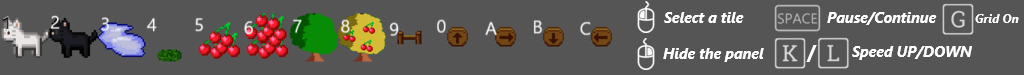
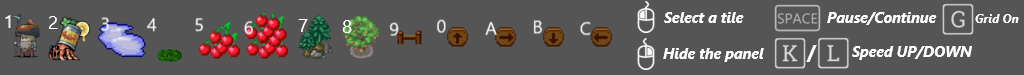
Add skin pack

Changed region(s): [[0.2812, 0.16, 0.375, 0.8267], [0.0, 0.2133, 0.0938, 0.8]]

diff --git a/src/GamePanel.java b/src/GamePanel.java
@@ -29,16 +29,17 @@ public class GamePanel {
     private static final double SAVE_DURATION = 4000;
     private static final int SAVE_HEI = 28;
     private static final String SAVE_LOG = "CURRENT GAME STATUS SAVED TO \n";
-    private static final Font SAVE_FONT = new Font("res/font/lilliput steps.ttf", SAVE_HEI);
+    private static final Font SAVE_FONT = new Font(ShadowLife.FONT_FILE_FOLDER +"lilliput steps.ttf", SAVE_HEI);
 
 
     /* ---------------------------- IMAGE SETTINGS ---------------------------- */
+    public static final double BUTTON_X = 0.967 * Window.getWidth();
     private static final AbstractButton questionButton = new QuestionButton();
     private static final AbstractButton backButton = new BackButton();
     private static final AbstractButton saveButton = new SaveButton();
 
     private static boolean SHOW_PANEL = false;
-    private static final Image PANEL = new Image("res/images/panel.png");
+    private static final Image PANEL = new Image(ShadowLife.IMAGE_FILE_FOLDER +"panel.png");
 
     /* ---------------------------- DIALOG SETTINGS ---------------------------- */
     private static final double lineSpacing = 0.035;
@@ -47,7 +48,7 @@ public class GamePanel {
     private static final double PANEL_HEI = 75;
     private static final double ICON_WID = 48;
 
-    private static final Font INS_FONT = new Font("res/font/VeraMono.ttf", 22);
+    private static final Font INS_FONT = new Font(ShadowLife.FONT_FILE_FOLDER +"VeraMono.ttf", 22);
 
     private static final double INS_START_HEI = 0.3;
     private static final String[] INSTRUCTIONS = {
@@ -61,7 +62,7 @@ public class GamePanel {
             "HAVE FUN!!!"
     };
 
-    private static final Font SAYING_FONT_NAME = new Font("res/font/yoster.ttf", 19);
+    private static final Font SAYING_FONT_NAME = new Font(ShadowLife.FONT_FILE_FOLDER +"yoster.ttf", 19);
     private static final String[] MY_SAYINGS = {
             "So.. Do you believe in God?",
             "Are you sure you are not one of them? \nAn actor have your own algorithm?",
@@ -97,7 +98,7 @@ public class GamePanel {
     private static final String PLACE_LOG = "You can place actor by clicking panel or using shortcut key";
     private static final String WARN_LOG = "You cannot place at current selected tile!";
     private static final String SELL_LOG = "Press S to sell everything in this tile";
-    private static final Image PAUSE = new Image("res/images/pause.png");
+    private static final Image PAUSE = new Image(ShadowLife.IMAGE_FILE_FOLDER +"pause.png");
     
     /* ---------------------------- HOURGLASS SETTINGS ---------------------------- */
     private static final String HG_LOG = "This is an Hourglass";
@@ -105,13 +106,13 @@ public class GamePanel {
     private static final double HG_TRANSPARENCY = 0.75;
     private static final double HG_DETECT_RADIUS = 90;
     private static final double HG_WID = 20, HG_HEI = 120;
-    private static final Point HG_TOPLEFT = new Point(985, 630);
+    private static final Point HG_TOPLEFT = new Point(0.96 * Window.getWidth(), 0.82 * Window.getHeight());
 
     private static final Colour HG_FULL_COLOR = new Colour(0, 0, 1, HG_TRANSPARENCY);
     private static final Colour HG_EMPTY_COLOR = new Colour(1, 0, 0, HG_TRANSPARENCY);
 
-    private static final Point TS_LOCATION = new Point(786, 736);
-    private static final Font TS_FONT = new Font("res/font/VeraMono.ttf", 14);
+    private static final Point TS_LOCATION = new Point(HG_TOPLEFT.x - 197, HG_TOPLEFT.y + 106);
+    private static final Font TS_FONT = new Font(ShadowLife.FONT_FILE_FOLDER +"VeraMono.ttf", 14);
 
     
     GamePanel(){
@@ -198,20 +199,18 @@ public class GamePanel {
         questionButton.draw();
         backButton.draw();
         saveButton.draw();
-        if(questionButton.clicked(input)){
 
+        if(questionButton.clicked(input)){
             if(colorTimer.isCool()) {
+
                 for (int i = 0; i < drawOptions.length; i++) {
                     drawOptions[i] = (new DrawOptions().setBlendColour(0.9*Math.random(), 0.2*Math.random(), 0.8*Math.random() ) );
                 }
             }
 
             for(int i = 0; i< INSTRUCTIONS.length; i++){
-
                 myUtil.drawCentralizedString(INS_FONT, INSTRUCTIONS[i], INS_START_HEI + i * lineSpacing, drawOptions[i]);
             }
-
-
 
         }else if(isSelect) {
             if(canPlace) {

diff --git a/src/ShadowLife.java b/src/ShadowLife.java
@@ -1,7 +1,4 @@
-import bagel.AbstractGame;
-import bagel.Image;
-import bagel.Input;
-import bagel.Window;
+import bagel.*;
 
 import java.util.ArrayList;
 
@@ -20,7 +17,7 @@ public class ShadowLife extends AbstractGame {
 
     public static final int TILE_WID = 64;
     /** Simulation background */
-    public static final String backgroundFile = "res/images/background.png";
+    public static final String backgroundFile = ShadowLife.IMAGE_FILE_FOLDER +"background.png";
 
     private static int tickCount = 0;
     private static Timer timer;
@@ -51,8 +48,13 @@ public class ShadowLife extends AbstractGame {
     public static final String RANDOM_FILENAME = "res/worlds/AN_RANDOM_ACTORS_PARTY.csv";
     private static final Timer RANDOM_GENERATOR_TIMER = new Timer(1200, false);
 
+    public static final int GAME_WINDOW_WID = 1024;
+    public static final int GAME_WINDOW_HEI = 768;
+    public static final String IMAGE_FILE_FOLDER = "res/images1/";
+    public static final String FONT_FILE_FOLDER = "res/font/";
+
     public ShadowLife() {
-        super(1024, 768, "ShadowLife NuoyanChen");
+        super(GAME_WINDOW_WID, GAME_WINDOW_HEI, "ShadowLife NuoyanChen");
         RandomWorldGenerator.GenerateCSV();
         background = new Image(backgroundFile);
         actors = new ArrayList<>();
@@ -80,12 +82,19 @@ public class ShadowLife extends AbstractGame {
         if(tickCount >= maxTicks){
             myUtil.exitTimeOut();
         }
-        background.drawFromTopLeft(0,0);
+
+        //background.drawFromTopLeft(0,0);
+
+        // Stretch by window size
+        background.draw(Window.getWidth()*0.5,Window.getHeight()*0.5, new DrawOptions().setScale( GAME_WINDOW_WID / background.getWidth(), GAME_WINDOW_HEI / background.getHeight() ));
+
+
+
 
         if(!isGameStart){
 
             if(RANDOM_GENERATOR_TIMER.isCool()){
-                RandomWorldGenerator.GenerateCSV(Math.random(), RANDOM_FILENAME);
+                RandomWorldGenerator.GenerateCSV(0.4 * Math.random(), RANDOM_FILENAME);
             }
 
             startMenu.draw();

diff --git a/src/StartMenu.java b/src/StartMenu.java
@@ -8,15 +8,15 @@ public class StartMenu {
     private ArrayList<Actor> actors = new ArrayList<>();
     private final ArrayList<String> directories;
     private static final int fontHei = 26;
-    private static final Font MAP_SELECT_FONT = new Font("res/font/dpcomic.ttf", fontHei);
+    private static final Font MAP_SELECT_FONT = new Font(ShadowLife.FONT_FILE_FOLDER +"dpcomic.ttf", fontHei);
 
     private static final int titleHei = 48;
     private static final String title = "ShadowLife Game";
-    private static final Font titleFont = new Font("res/font/lilliput steps.ttf", titleHei);
+    private static final Font titleFont = new Font(ShadowLife.FONT_FILE_FOLDER +"lilliput steps.ttf", titleHei);
 
     private static final int titleHei1 = 30;
     private static final String title1 = "\nCreated by Nuoyan Chen";
-    private static final Font titleFont1 = new Font("res/font/lilliput steps.ttf", titleHei1);
+    private static final Font titleFont1 = new Font(ShadowLife.FONT_FILE_FOLDER +"lilliput steps.ttf", titleHei1);
 
     private static final Point FIRST_LINE_LOCATION = new Point(Window.getWidth()*0.25, Window.getHeight()*0.3);
     private static final boolean RANDOM_BG = false;

diff --git a/src/myUtil.java b/src/myUtil.java
@@ -23,8 +23,8 @@ import java.util.stream.Stream;
  * @author NuoyanChen (nuoyanc@student.unimelb.edu.au)
  */
 public final class myUtil {
-    private static final Font gameFont = new Font("res/font/VeraMono.ttf", 24);
-    private static final Font LOG_FONT = new Font("res/font/VeraMono.ttf", 16);
+    private static final Font gameFont = new Font(ShadowLife.FONT_FILE_FOLDER +"VeraMono.ttf", 24);
+    private static final Font LOG_FONT = new Font(ShadowLife.FONT_FILE_FOLDER +"VeraMono.ttf", 16);
 
     /**
      * Reading a csv to Arraylist of Actors

diff --git a/src/RandomWorldGenerator.java b/src/RandomWorldGenerator.java
@@ -10,8 +10,8 @@ public class RandomWorldGenerator {
 
     public static final String OUTPUT_FILE = ShadowLife.RANDOM_FILENAME;
 
-    public static final int WID_WORLD = 1024;
-    public static final int HEI_WORLD = 768;
+    public static final int WID_WORLD = ShadowLife.GAME_WINDOW_WID;
+    public static final int HEI_WORLD = ShadowLife.GAME_WINDOW_HEI;
     public static final int TILE_WEI = ShadowLife.TILE_WID;
 
     public static final int X_TILES = WID_WORLD/TILE_WEI;

diff --git a/src/Actor.java b/src/Actor.java
@@ -15,7 +15,7 @@ public abstract class Actor{
 
     private final Image actor;
     private Point location;
-    private final static Font gameFont = new Font("res/font/VeraMono.ttf", 24);
+    private final static Font gameFont = new Font(ShadowLife.FONT_FILE_FOLDER +"VeraMono.ttf", 24);
 
     public Actor(String filepath, double x, double y){
         this(filepath, new Point(x, y));

diff --git a/src/Gatherer.java b/src/Gatherer.java
@@ -24,7 +24,7 @@ public class Gatherer extends MobileActor{
      * @param direction Four direction of the Gatherer, UP, RIGHT, DOWN, LEFT which correspond to 0, 1, 2, 3
      */
     public Gatherer(double x, double y, int direction) {
-        super("res/images/gatherer.png", x, y, direction);
+        super(ShadowLife.IMAGE_FILE_FOLDER +"gatherer.png", x, y, direction);
     }
 
 

diff --git a/src/Sign.java b/src/Sign.java
@@ -16,7 +16,7 @@ public class Sign extends Actor{
      * @param direction Four direction of the sign, UP, RIGHT, DOWN, LEFT which correspond to 0, 1, 2, 3
      */
     public Sign(double x, double y, int direction) {
-        super("res/images/up.png", x, y);
+        super(ShadowLife.IMAGE_FILE_FOLDER +"up.png", x, y);
         this.direction = direction;
     }
 

diff --git a/src/BackButton.java b/src/BackButton.java
@@ -2,7 +2,7 @@ import bagel.util.Point;
 
 public class BackButton extends AbstractButton{
     public BackButton() {
-        super(new Point(990, 190), 25, "res/images/backToMenu.png");
+        super(new Point(GamePanel.BUTTON_X, 190), 25, ShadowLife.IMAGE_FILE_FOLDER +"backToMenu.png");
     }
 
     @Override

diff --git a/src/QuestionButton.java b/src/QuestionButton.java
@@ -5,7 +5,7 @@ import bagel.util.Point;
 public class QuestionButton extends AbstractButton {
 
     QuestionButton() {
-        super(new Point(990, 120), 25, "res/images/question.png");
+        super(new Point(GamePanel.BUTTON_X, 120), 25, ShadowLife.IMAGE_FILE_FOLDER +"question.png");
     }
 
     @Override

diff --git a/src/SaveButton.java b/src/SaveButton.java
@@ -2,7 +2,7 @@ import bagel.util.Point;
 
 public class SaveButton extends AbstractButton{
     public SaveButton() {
-        super(new Point(990, 254), 25, "res/images/save.png");
+        super(new Point(GamePanel.BUTTON_X, 254), 25, ShadowLife.IMAGE_FILE_FOLDER +"save.png");
     }
 
 }

diff --git a/src/Thief.java b/src/Thief.java
@@ -14,7 +14,7 @@ public class Thief extends MobileActor{
     }
 
     Thief(double x, double y, int direction) {
-        super("res/images/thief.png", x, y, direction);
+        super(ShadowLife.IMAGE_FILE_FOLDER +"thief.png", x, y, direction);
         isConsuming = false;
     }
 
